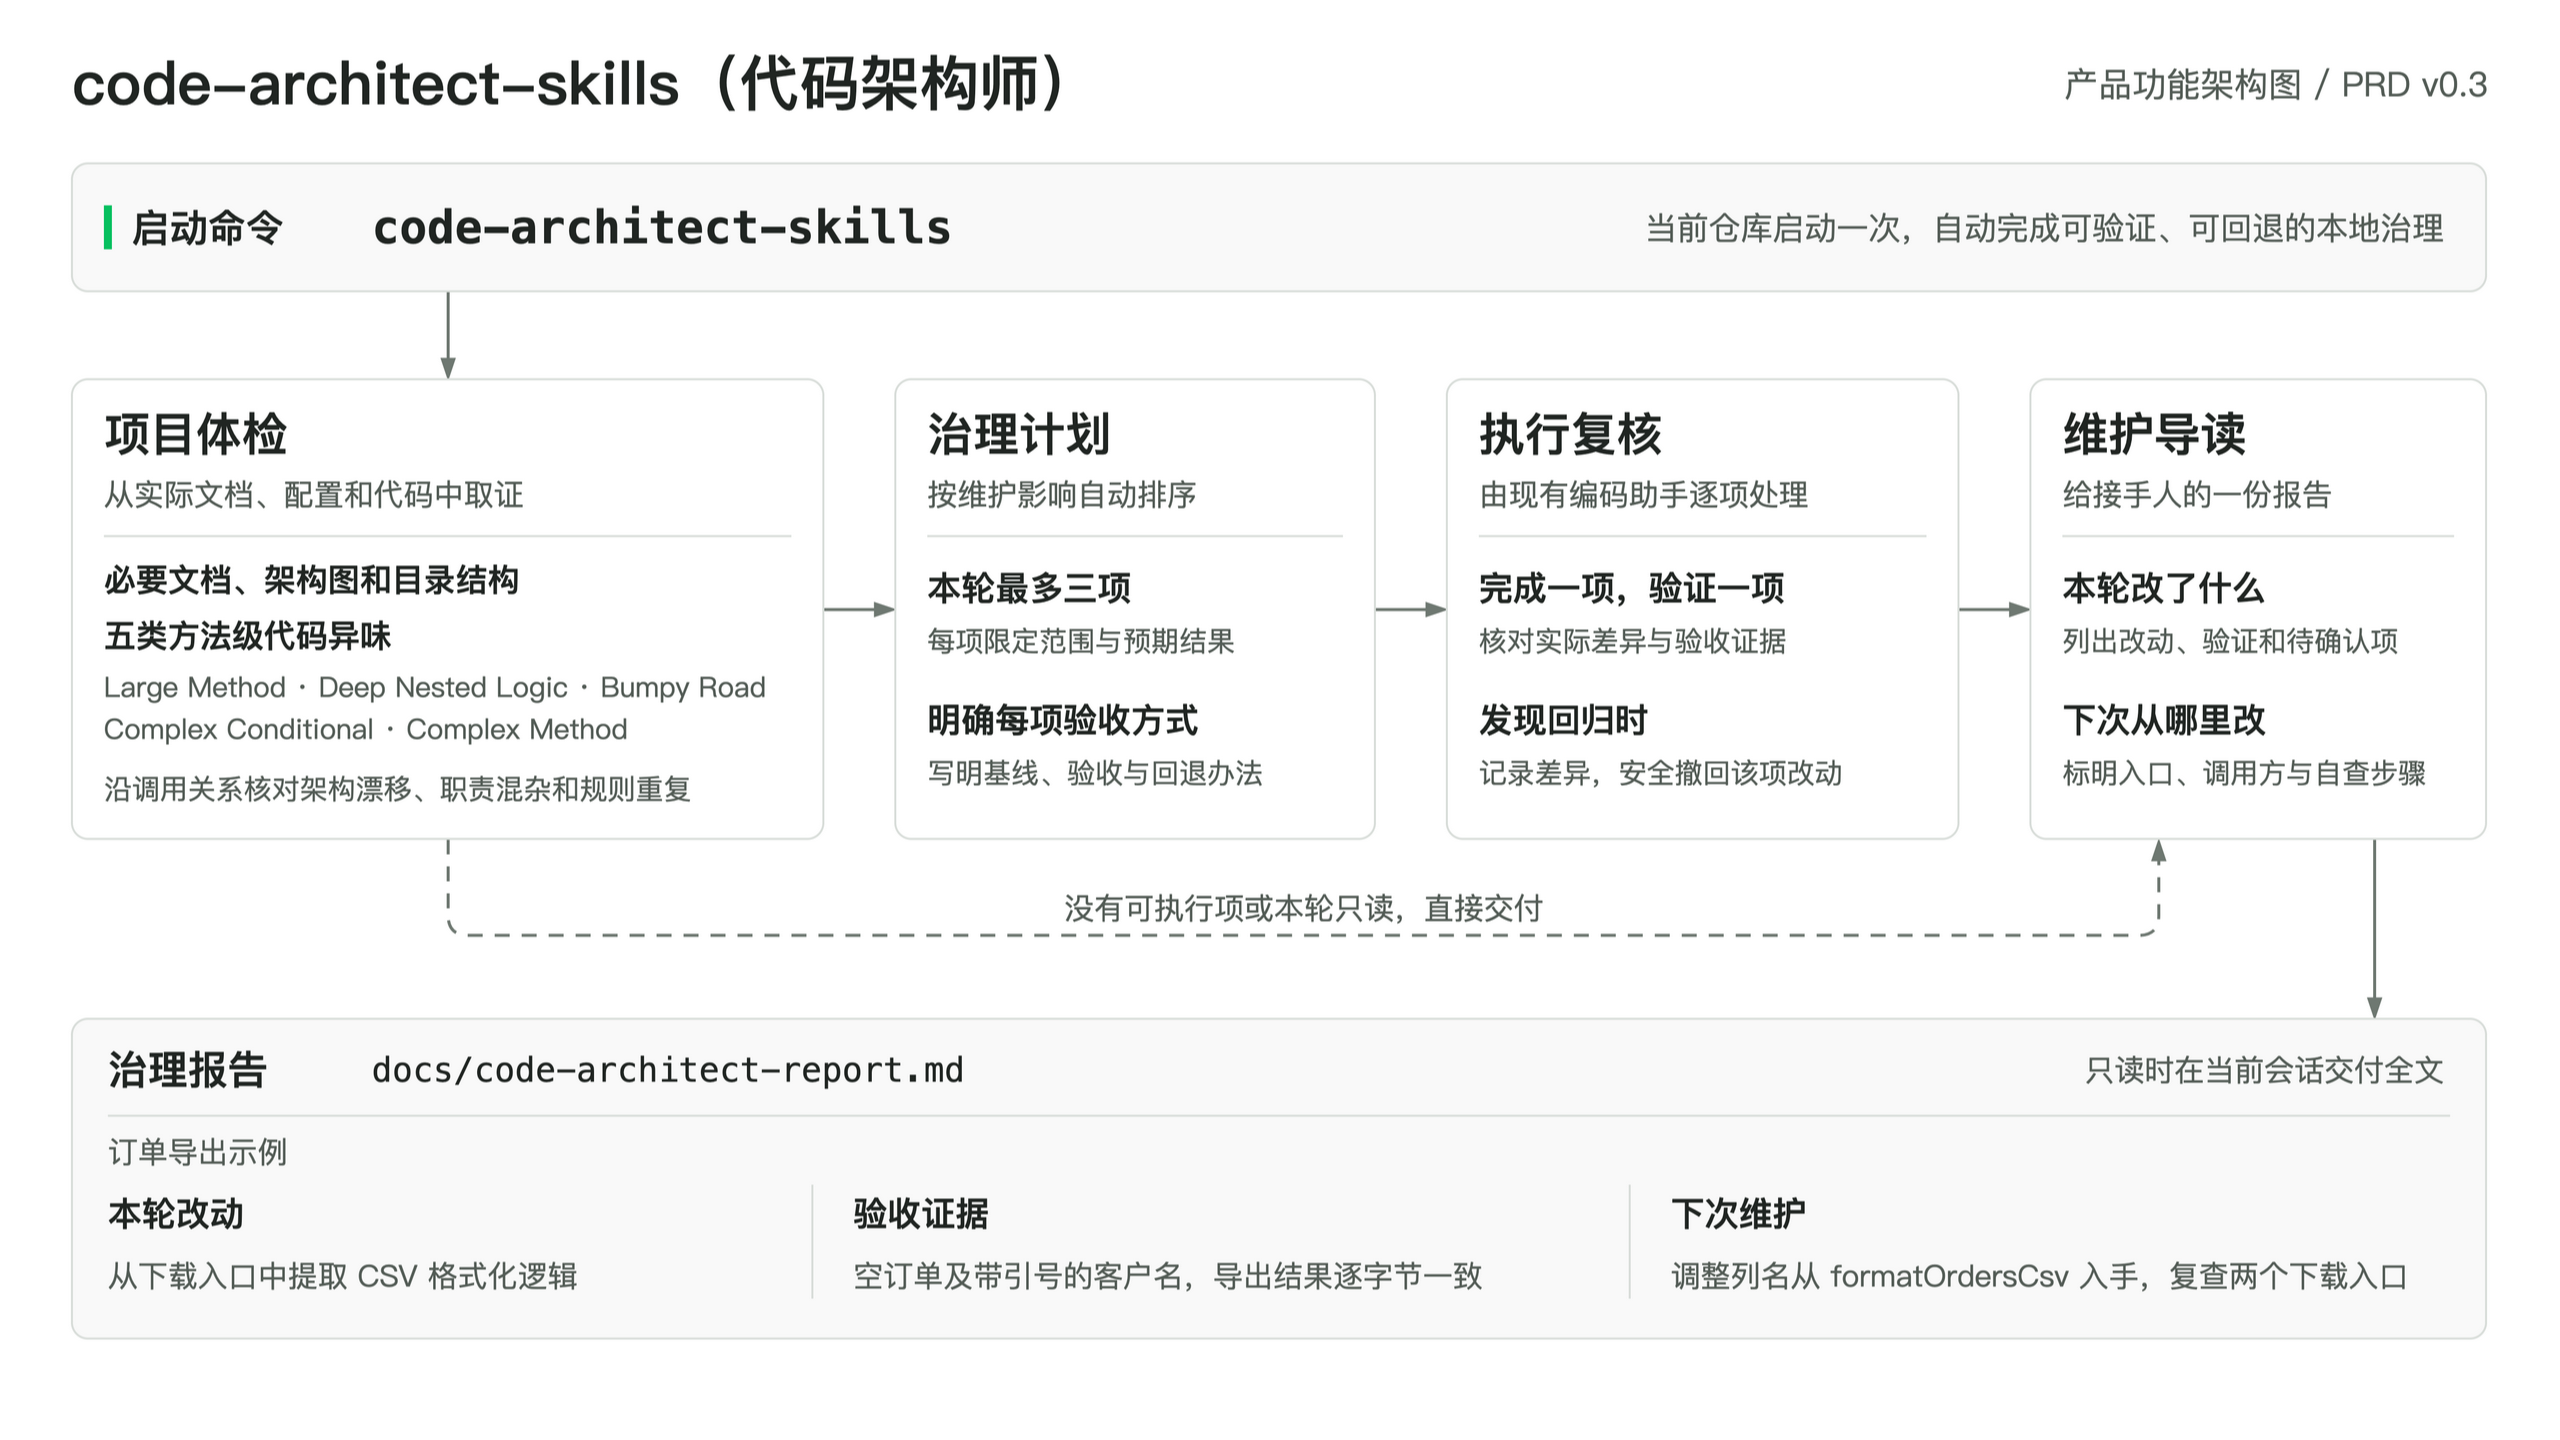
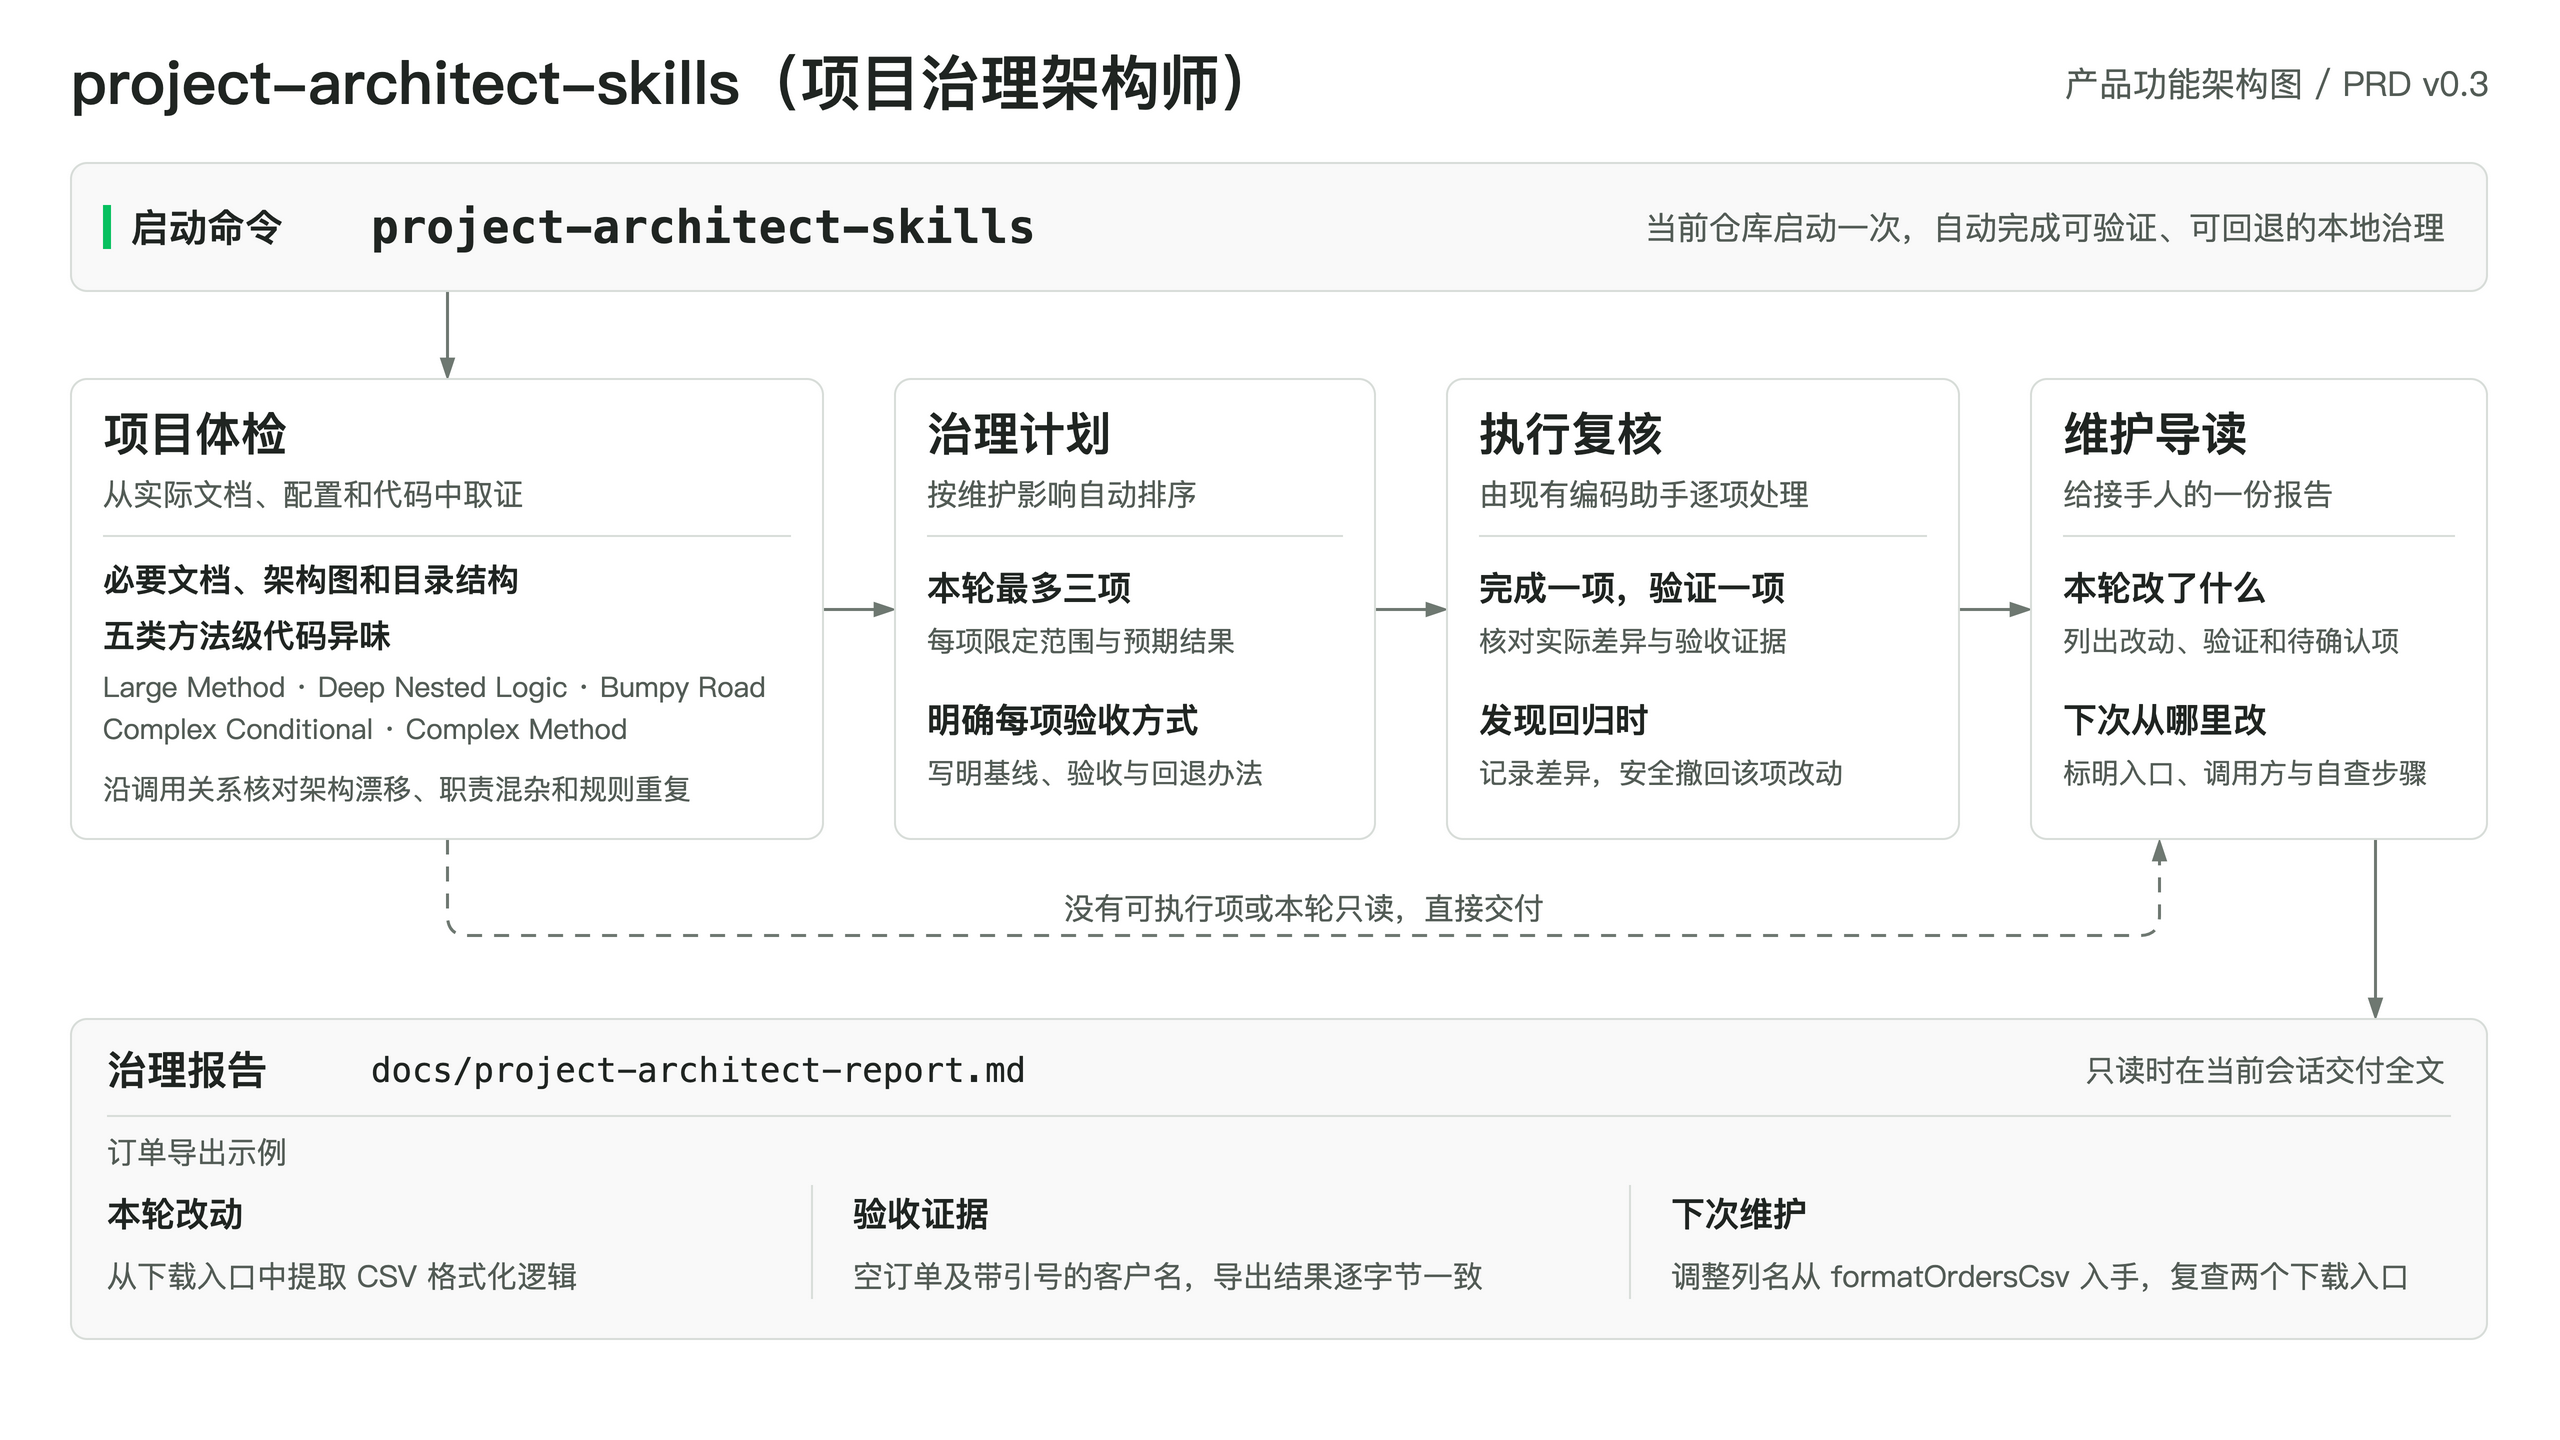
将架构治理技能重命名为 project-architect-skills

diff --git a/skills/project-architect-skills/scripts/governance_report.py b/skills/project-architect-skills/scripts/governance_report.py
@@ -17,7 +17,7 @@ PASSED = "通过"
 REGRESSION = "发现差异"
 RESOLVED = "已解决"
 CHECK_KINDS = {"structure": "结构", "behavior": "行为", "handover": "交接"}
-REPORT_PATH = Path("docs/code-architect-report.md")
+REPORT_PATH = Path("docs/project-architect-report.md")
 
 
 def records(value, field):
@@ -129,13 +129,13 @@ def render_report(record):
     plan, selected = build_plan(record.get("plan"))
     review, passed = render_reviews(record.get("reviews"), selected)
     guide = render_guide(record, passed)
-    sections = ["# 代码架构治理报告", *(item.strip() for item in audit), plan.rstrip(), review, guide]
+    sections = ["# 项目治理报告", *(item.strip() for item in audit), plan.rstrip(), review, guide]
     return "\n\n".join(section for section in sections if section) + "\n"
 
 
-def managed_report(body):
+def managed_report(body, skill_name="project-architect-skills"):
     digest = hashlib.sha256(body).hexdigest()
-    return f"<!-- code-architect-skills sha256={digest} -->\n\n".encode("ascii") + body
+    return f"<!-- {skill_name} sha256={digest} -->\n\n".encode("ascii") + body
 
 
 def publish_report(report):
@@ -148,14 +148,14 @@ def publish_report(report):
             return False
         before = path.read_bytes()
         _, _, body = before.partition(b"\n\n")
-        if before != managed_report(body):
+        if before not in (managed_report(body), managed_report(body, "code-architect-skills")):
             return False
     content = managed_report(report.encode("utf-8"))
     if before == content:
         return True
 
     path.parent.mkdir(exist_ok=True)
-    with tempfile.TemporaryDirectory(dir=path.parent, prefix=".code-architect-") as directory:
+    with tempfile.TemporaryDirectory(dir=path.parent, prefix=".project-architect-") as directory:
         staged = Path(directory) / path.name
         staged.write_bytes(content)
         if before is None:

diff --git a/tests/test_governance_report.py b/tests/test_governance_report.py
@@ -6,8 +6,8 @@ import unittest
 from pathlib import Path
 
 
-SCRIPT = Path(__file__).resolve().parents[1] / "skills/code-architect-skills/scripts/governance_report.py"
-REPORT = Path("docs/code-architect-report.md")
+SCRIPT = Path(__file__).resolve().parents[1] / "skills/project-architect-skills/scripts/governance_report.py"
+REPORT = Path("docs/project-architect-report.md")
 
 
 def candidate(target, title):
@@ -144,6 +144,20 @@ class GovernanceReportTests(unittest.TestCase):
         record = report_record()
         self.assertEqual(self.report(record, "--write"), self.report(record))
         self.assertEqual(path.read_bytes(), manual)
+
+    def test_renamed_report_can_refresh_a_valid_legacy_marker(self):
+        path = self.root / REPORT
+        record = report_record()
+        self.assertEqual(self.report(record, "--write").strip(), str(REPORT))
+        original = path.read_bytes()
+        legacy = original.replace(b"<!-- project-architect-skills sha256=", b"<!-- code-architect-skills sha256=", 1)
+        edited = legacy + "人工交接备注\n".encode("utf-8")
+        path.write_bytes(edited)
+        self.assertEqual(self.report(record, "--write"), self.report(record))
+        self.assertEqual(path.read_bytes(), edited)
+        path.write_bytes(legacy)
+        self.assertEqual(self.report(record, "--write").strip(), str(REPORT))
+        self.assertEqual(path.read_bytes(), original)
 
     def test_existing_unmanaged_report_and_symlink_destination_are_preserved(self):
         docs = self.root / "docs"

diff --git a/tests/test_directory_structure.py b/tests/test_directory_structure.py
@@ -6,7 +6,7 @@ import unittest
 from pathlib import Path
 
 
-SCRIPT = Path(__file__).resolve().parents[1] / "skills/code-architect-skills/scripts/directory_structure.py"
+SCRIPT = Path(__file__).resolve().parents[1] / "skills/project-architect-skills/scripts/directory_structure.py"
 
 COLOCATED_TEST = {
     "path": "src/orders/test_export.py",

diff --git a/tests/test_code_smells.py b/tests/test_code_smells.py
@@ -7,7 +7,7 @@ import unittest
 from pathlib import Path
 
 
-SCRIPTS = Path(__file__).resolve().parents[1] / "skills/code-architect-skills/scripts"
+SCRIPTS = Path(__file__).resolve().parents[1] / "skills/project-architect-skills/scripts"
 KINDS = ("long_method", "deep_nested_logic", "bumpy_road", "complex_conditional", "complex_method")
 
 

diff --git a/tests/test_governance_plan.py b/tests/test_governance_plan.py
@@ -5,7 +5,7 @@ import unittest
 from pathlib import Path
 
 
-SCRIPT = Path(__file__).resolve().parents[1] / "skills/code-architect-skills/scripts/governance_plan.py"
+SCRIPT = Path(__file__).resolve().parents[1] / "skills/project-architect-skills/scripts/governance_plan.py"
 
 
 def candidate(title, target, **changes):

diff --git a/tests/test_architecture_diagrams.py b/tests/test_architecture_diagrams.py
@@ -6,7 +6,7 @@ import unittest
 from pathlib import Path
 
 
-SCRIPT = Path(__file__).resolve().parents[1] / "skills/code-architect-skills/scripts/architecture_diagrams.py"
+SCRIPT = Path(__file__).resolve().parents[1] / "skills/project-architect-skills/scripts/architecture_diagrams.py"
 
 
 def architecture_record():

diff --git a/tests/test_necessary_docs.py b/tests/test_necessary_docs.py
@@ -6,7 +6,7 @@ import unittest
 from pathlib import Path
 
 
-SKILL_DIR = Path(__file__).resolve().parents[1] / "skills/code-architect-skills"
+SKILL_DIR = Path(__file__).resolve().parents[1] / "skills/project-architect-skills"
 SCRIPT = SKILL_DIR / "scripts/necessary_docs.py"
 
 
